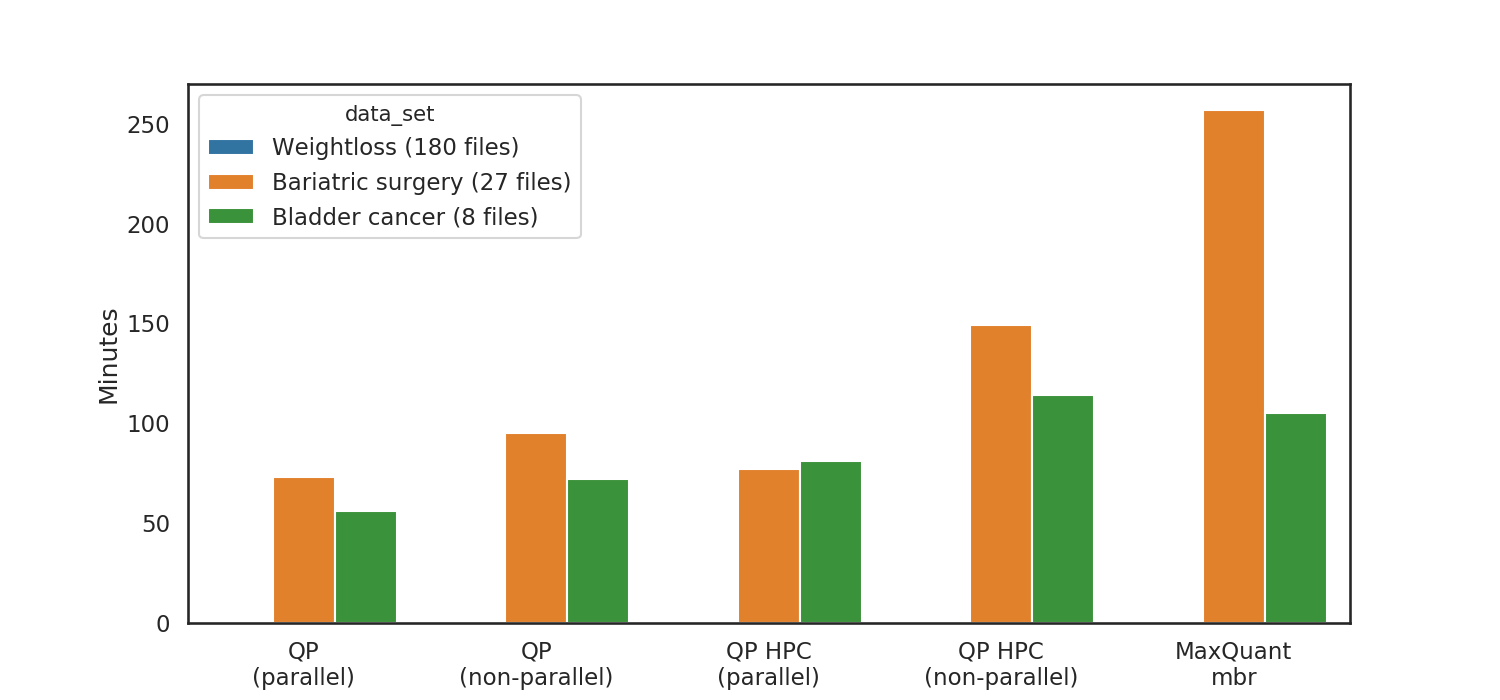
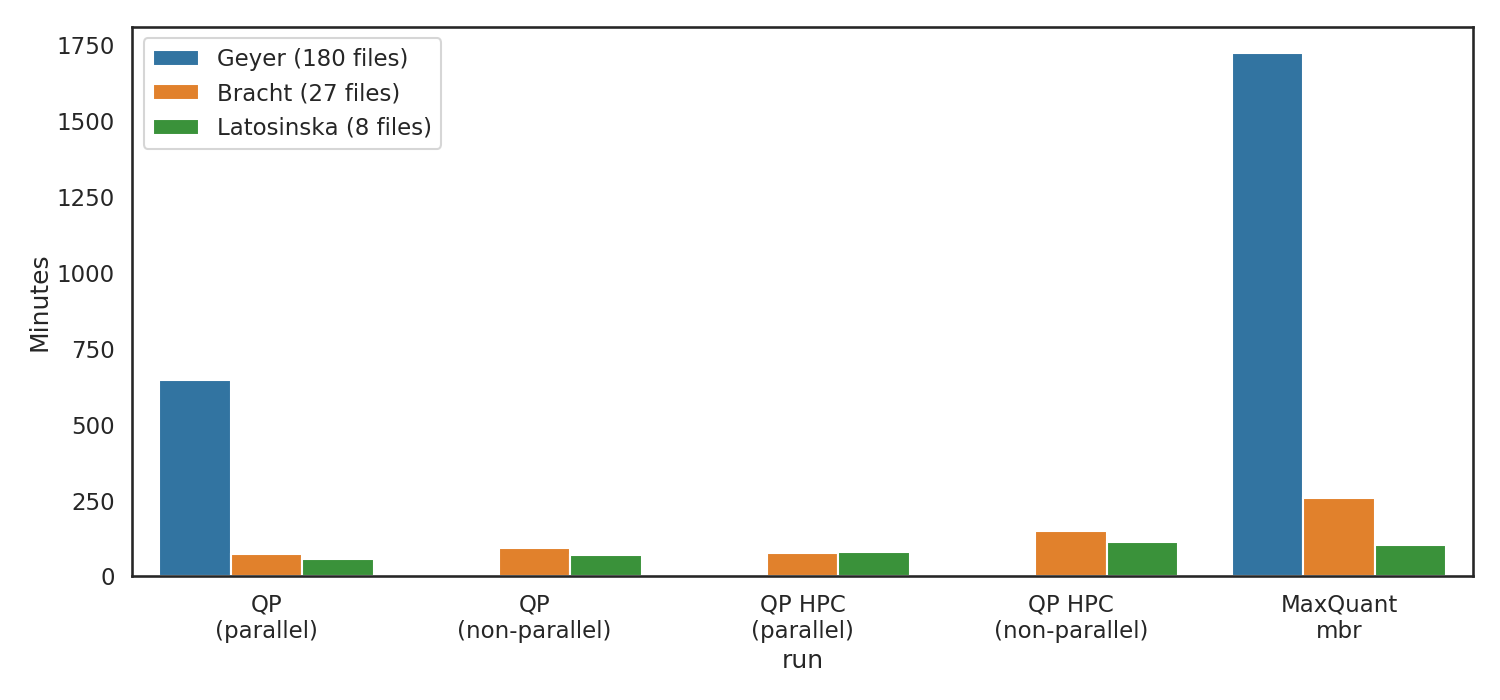
Changed name of data sets and removed legend title

Changed region(s): [[0.0, 0.03, 1.0, 0.99], [0.0307, 0.27, 0.092, 0.3]]

diff --git a/doc/paper/data/generate_plots.py b/doc/paper/data/generate_plots.py
@@ -23,7 +23,7 @@ data_cores = {
 }
 
 # Restructure
-data_sets =  ['Weightloss (180 files)', 'Bariatric surgery (27 files)', 'Bladder cancer (8 files)']
+data_sets =  ['Geyer (180 files)', 'Bracht (27 files)', 'Latosinska (8 files)']
 data_list = []
 for key in data.keys():
     values = data[key]
@@ -36,11 +36,13 @@ columns = ['run', 'data_set', 'time']
 pd_data = pd.DataFrame(data_list, columns = columns)
 print(pd_data)
 plt.figure(figsize=(15,7))
-ax=sns.barplot(x='run',
-               y='time',
-               hue='data_set',
-               data=pd_data)
+ax = sns.barplot(x='run',
+                 y='time',
+                 hue='data_set',
+                 data=pd_data)
+handles, labels = ax.get_legend_handles_labels()
+ax.legend(handles=handles[0:], labels=labels[0:])
 plt.ylabel(y)
-#plt.tight_layout()
+plt.tight_layout()
 plt.savefig(file)
 plt.close()
